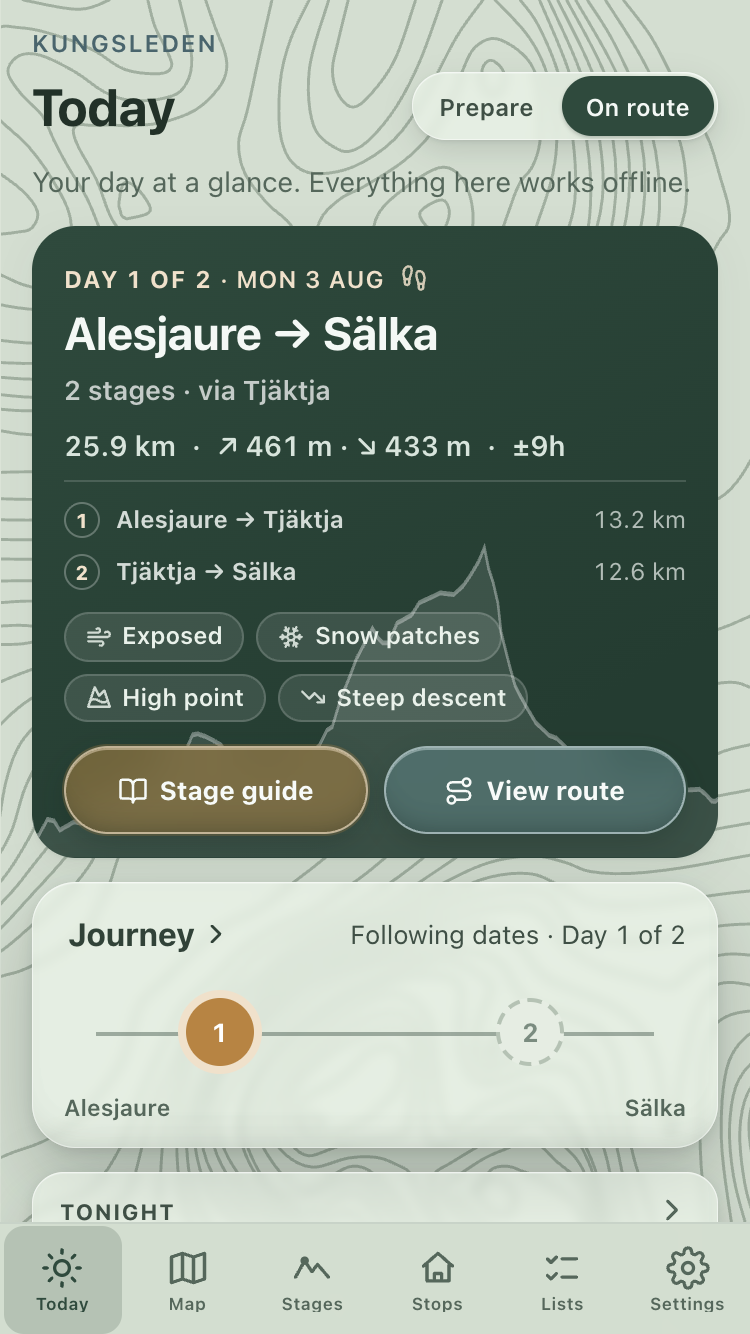
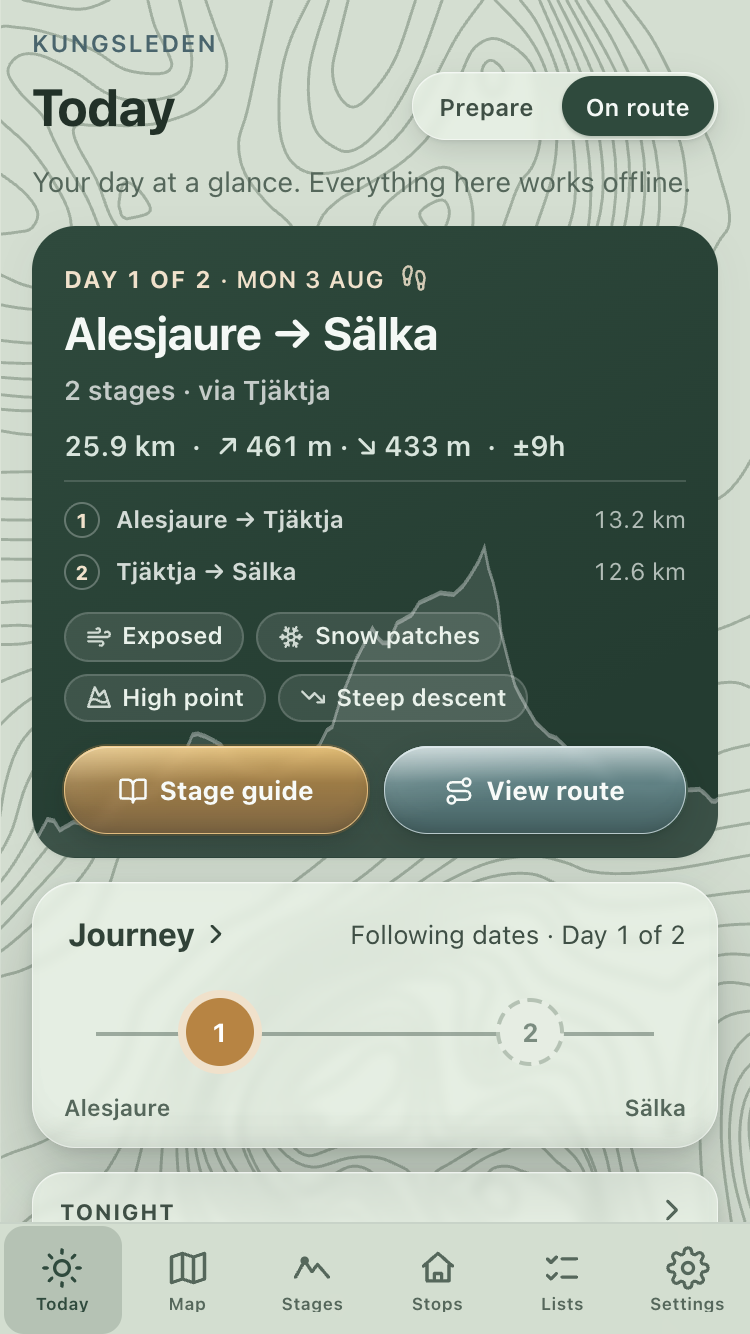
Refine branded actions with panel glass material
The first branded pass tinted one flat rgba body per button and framed it
with a real border — over the dark spruce hero the copper collapsed toward
khaki, the glacier toward grey-teal, and the buttons read as outlined pills
rather than glass. This rebuilds the action material on the SAME anatomy as
the Journey/Tonight panes (.today-glass) and the mode capsule (.today-mode):
the shared --glass-* knobs for the backdrop lift (small blur keeps the
elevation line legible; brightness cuts the muddiness), a hairline inset rim
instead of a chunky border, a 1px top catch-light, a restrained lower inner
shade, a diagonal sheen, and control-scale shadows.

Colour now lives in a layered ::before body — a vertical gradient of each
token family (focus gold → --cloudberry → dark cloudberry; --glacier-soft →
--glacier → --glacier-700) instead of one washed-out tint, so the composited
surface still reads copper and pale blue over the hero. Both pseudo layers
sit below the label inside the isolated button, keeping text and icons fully
crisp. Hover shifts the internal light and rim rather than whitening; the
no-blur fallback densifies each body toward its darker family step; reduced
transparency/contrast switch to flat dark fills with strong rims and no
sheen. Structure, navigation, layout, and non-hiking actions unchanged.

Evidence refreshed in docs/pr-evidence/2026-08-branded-glass-actions/,
including a frame with Journey and Tonight for material comparison.

Changed region(s): [[0.0613, 0.5532, 0.92, 0.6147]]

diff --git a/src/styles/global.css b/src/styles/global.css
@@ -2600,67 +2600,138 @@ button.stop-fac:focus-visible {
   transform: none;
 }
 
-/* Hiking-only liquid glass in the HOUSE ACTION COLOURS: View route is glacier
-   glass, Stage guide cloudberry glass — the same hierarchy as the solid
-   .hero-action fills above, kept translucent and blurred so the verified
-   elevation silhouette stays present beneath both. Tints are the brand tokens
-   as rgba() triplets (--glacier 106,141,149 / --cloudberry 183,132,67 — the
-   file's established translucent-brand derivation, see the cloudberry focus
-   ring), with rims from the matching -soft tones. */
+/* Hiking-only liquid glass in the HOUSE ACTION COLOURS — built from the SAME
+   material anatomy as the Journey/Tonight panes (.today-glass) and the mode
+   capsule (.today-mode), translated to a branded compact pill:
+     1. button        — backdrop lift through the shared --glass-* knobs (the
+                        small blur keeps the elevation line legible through
+                        the pane; brightness cuts the muddiness — on the dark
+                        hero it works one step harder than on paper) + a
+                        control-scale outer shadow;
+     2. ::before body — the brand-colour layer. A vertical gradient of the
+                        token family (light kin on top, token in the body,
+                        dark kin at the base) rather than one washed-out
+                        rgba: composited over the spruce hero the surface
+                        still READS cloudberry / glacier instead of the
+                        khaki / grey-teal a flat translucent tint collapses
+                        into. Alphas open slightly toward the base so the
+                        silhouette stays perceptible where it crosses;
+     3. ::after optics— hairline inset rim (the house edge — a real border
+                        renders chunky and uneven on this radius), 1px top
+                        catch-light, a restrained lower inner shade, and a
+                        diagonal sheen. Both pseudos sit UNDER the label
+                        (negative z-index inside the isolated button) so
+                        text and icons stay fully crisp.
+   Variant knobs only carry colour; the structure is shared. */
 .hero-action--glass {
-  background: rgba(106, 141, 149, 0.46);
+  --action-body-top: rgba(215, 229, 232, 0.85); /* --glacier-soft */
+  --action-body-mid: rgba(106, 141, 149, 0.74); /* --glacier */
+  --action-body-deep: rgba(74, 101, 109, 0.68); /* --glacier-700 */
+  --action-rim: rgba(215, 229, 232, 0.8);
+  --action-catch: rgba(240, 250, 252, 0.5);
+  position: relative;
+  isolation: isolate;
+  border: 0;
   color: #f7faf8;
-  border-color: rgba(215, 229, 232, 0.58);
+  background: transparent;
+  backdrop-filter: blur(var(--glass-blur, 3px)) saturate(var(--glass-saturate, 1.15))
+    brightness(1.12);
+  -webkit-backdrop-filter: blur(var(--glass-blur, 3px))
+    saturate(var(--glass-saturate, 1.15)) brightness(1.12);
   box-shadow:
-    inset 0 1px 0 rgba(230, 243, 246, 0.38),
-    inset 0 -10px 18px -16px rgba(10, 24, 18, 0.72),
-    0 5px 14px rgba(12, 29, 22, 0.2);
-  backdrop-filter: blur(12px) saturate(1.2);
-  -webkit-backdrop-filter: blur(12px) saturate(1.2);
-  transition: transform 0.08s ease, background 0.15s ease, border-color 0.15s ease;
+    0 1px 2px rgba(12, 24, 20, 0.16),
+    0 5px 14px rgba(12, 24, 20, 0.18);
+}
+.hero-action--glass::before {
+  content: '';
+  position: absolute;
+  inset: 0;
+  border-radius: inherit;
+  pointer-events: none;
+  z-index: -2;
+  background: linear-gradient(
+    180deg,
+    var(--action-body-top),
+    var(--action-body-mid) 42%,
+    var(--action-body-deep)
+  );
+}
+.hero-action--glass::after {
+  content: '';
+  position: absolute;
+  inset: 0;
+  border-radius: inherit;
+  pointer-events: none;
+  z-index: -1;
+  background: linear-gradient(
+    165deg,
+    rgba(255, 255, 255, 0.26),
+    rgba(255, 255, 255, 0.07) 30%,
+    transparent 48%
+  );
+  box-shadow:
+    inset 0 0 0 var(--glass-rim-w, 0.5px) var(--action-rim),
+    inset 0 1px 0 var(--action-catch),
+    inset 0 -8px 14px -12px rgba(10, 24, 18, 0.5);
 }
 .hero-action--glass.hero-action--primary {
-  background: rgba(183, 132, 67, 0.52);
-  border-color: rgba(240, 225, 203, 0.62);
+  --action-body-top: rgba(245, 201, 123, 0.9); /* the focus gold #f5c97b */
+  --action-body-mid: rgba(183, 132, 67, 0.78); /* --cloudberry */
+  --action-body-deep: rgba(154, 106, 62, 0.7); /* dark cloudberry, .pill-current ink */
+  --action-rim: rgba(245, 204, 137, 0.85);
+  --action-catch: rgba(255, 239, 213, 0.55);
   box-shadow:
-    inset 0 1px 0 rgba(255, 239, 213, 0.42),
-    inset 0 -10px 18px -16px rgba(10, 24, 18, 0.72),
-    0 5px 14px rgba(12, 29, 22, 0.22),
-    0 0 0 1px rgba(183, 132, 67, 0.28);
+    0 1px 2px rgba(12, 24, 20, 0.16),
+    0 5px 14px rgba(12, 24, 20, 0.2),
+    0 0 0 1px rgba(183, 132, 67, 0.3);
 }
+/* Hover shifts the internal light and rim rather than whitening the body. */
 @media (hover: hover) {
   .hero-action--glass:hover {
-    background: rgba(106, 141, 149, 0.58);
-    border-color: rgba(215, 229, 232, 0.78);
+    --action-body-top: rgba(215, 229, 232, 0.95);
+    --action-body-mid: rgba(106, 141, 149, 0.82);
+    --action-rim: rgba(215, 229, 232, 0.95);
+    --action-catch: rgba(240, 250, 252, 0.65);
   }
   .hero-action--glass.hero-action--primary:hover {
-    background: rgba(183, 132, 67, 0.64);
-    border-color: rgba(245, 204, 137, 0.9);
+    --action-body-top: rgba(245, 201, 123, 0.98);
+    --action-body-mid: rgba(183, 132, 67, 0.86);
+    --action-rim: rgba(245, 204, 137, 1);
+    --action-catch: rgba(255, 239, 213, 0.7);
   }
 }
-/* No backdrop-filter: the tints densify into near-solid brand surfaces (the
-   darker family steps keep 13px bold white text comfortably readable) while
-   the copper-versus-glacier identities stay apart. */
+/* No backdrop-filter: the body densifies toward the darker family step so
+   13px bold white labels stay readable, while copper-versus-glacier survives. */
 @supports not ((backdrop-filter: blur(1px)) or (-webkit-backdrop-filter: blur(1px))) {
   .hero-action--glass {
-    background: rgba(74, 101, 109, 0.95); /* --glacier-700 */
-    border-color: rgba(215, 229, 232, 0.66);
+    --action-body-top: rgba(106, 141, 149, 0.96); /* --glacier */
+    --action-body-mid: rgba(74, 101, 109, 0.96); /* --glacier-700 */
+    --action-body-deep: rgba(74, 101, 109, 0.97);
   }
   .hero-action--glass.hero-action--primary {
-    background: rgba(154, 106, 62, 0.95); /* dark cloudberry, the .pill-current ink */
-    border-color: #d2a15f;
+    --action-body-top: rgba(183, 132, 67, 0.96); /* --cloudberry */
+    --action-body-mid: rgba(154, 106, 62, 0.96); /* dark cloudberry */
+    --action-body-deep: rgba(154, 106, 62, 0.97);
+    --action-rim: #d2a15f;
   }
 }
 @media (prefers-reduced-transparency: reduce), (prefers-contrast: more) {
   .hero-action--glass {
-    background: rgba(74, 101, 109, 0.97); /* --glacier-700 */
-    border-color: rgba(255, 255, 255, 0.8);
+    --action-body-top: rgba(74, 101, 109, 0.97); /* flat --glacier-700 */
+    --action-body-mid: rgba(74, 101, 109, 0.97);
+    --action-body-deep: rgba(74, 101, 109, 0.97);
+    --action-rim: rgba(255, 255, 255, 0.8);
     backdrop-filter: none;
     -webkit-backdrop-filter: none;
   }
   .hero-action--glass.hero-action--primary {
-    background: rgba(154, 106, 62, 0.97); /* dark cloudberry, the .pill-current ink */
-    border-color: #f0e1cb; /* --cloudberry-soft */
+    --action-body-top: rgba(154, 106, 62, 0.97); /* flat dark cloudberry */
+    --action-body-mid: rgba(154, 106, 62, 0.97);
+    --action-body-deep: rgba(154, 106, 62, 0.97);
+    --action-rim: #f0e1cb; /* --cloudberry-soft */
+  }
+  .hero-action--glass::after {
+    background: none; /* no sheen in reduced modes — the rim carries the edge */
   }
 }
 .hero + .card {
